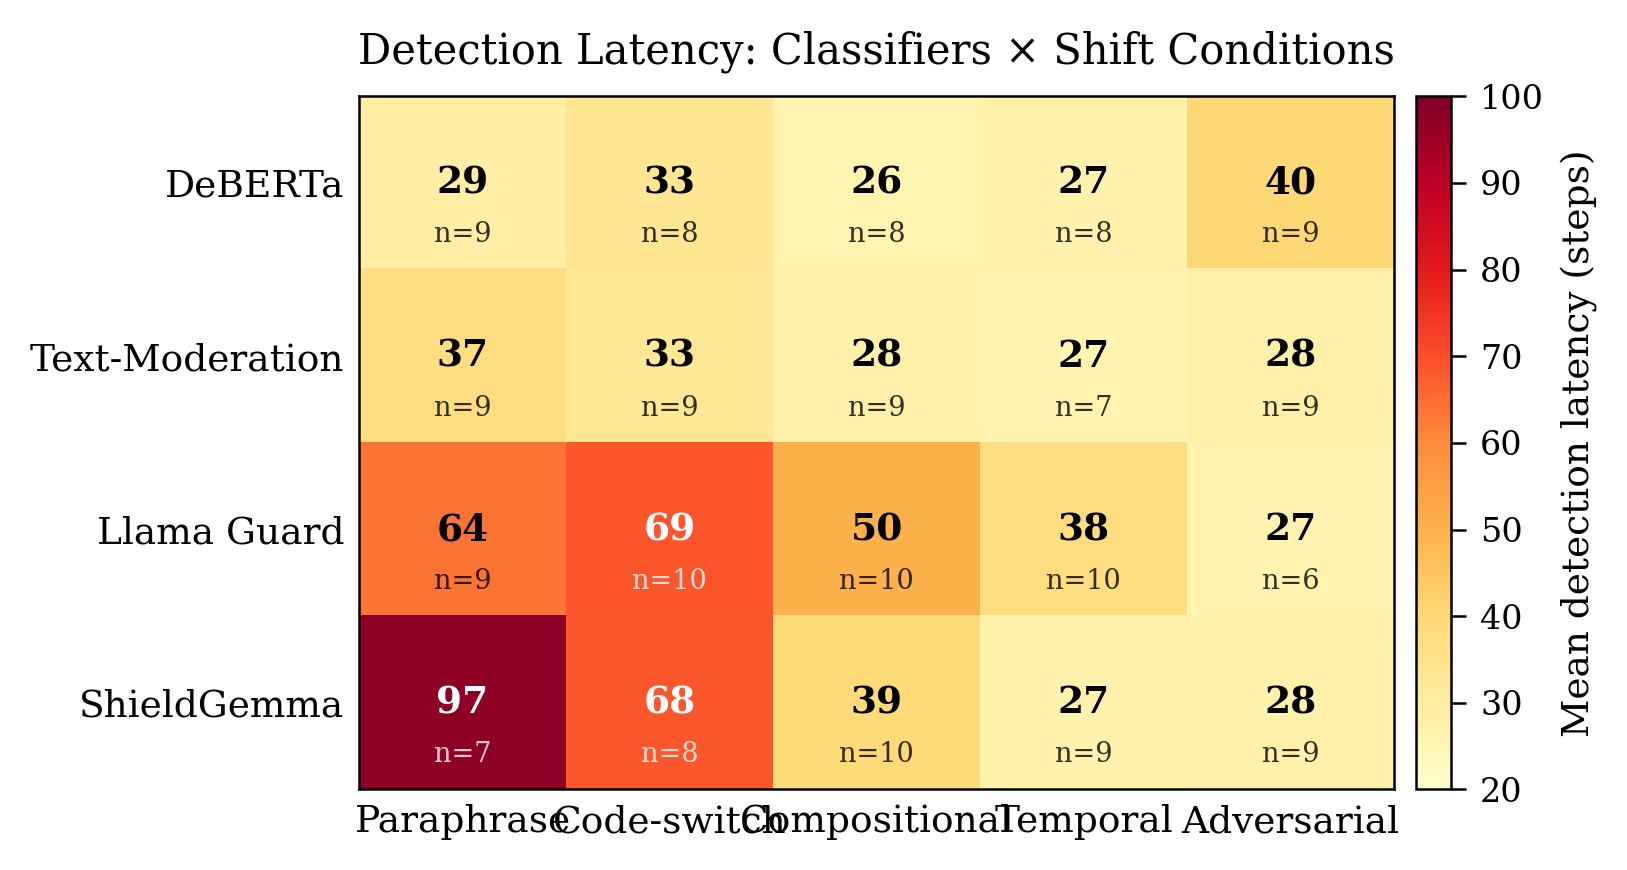
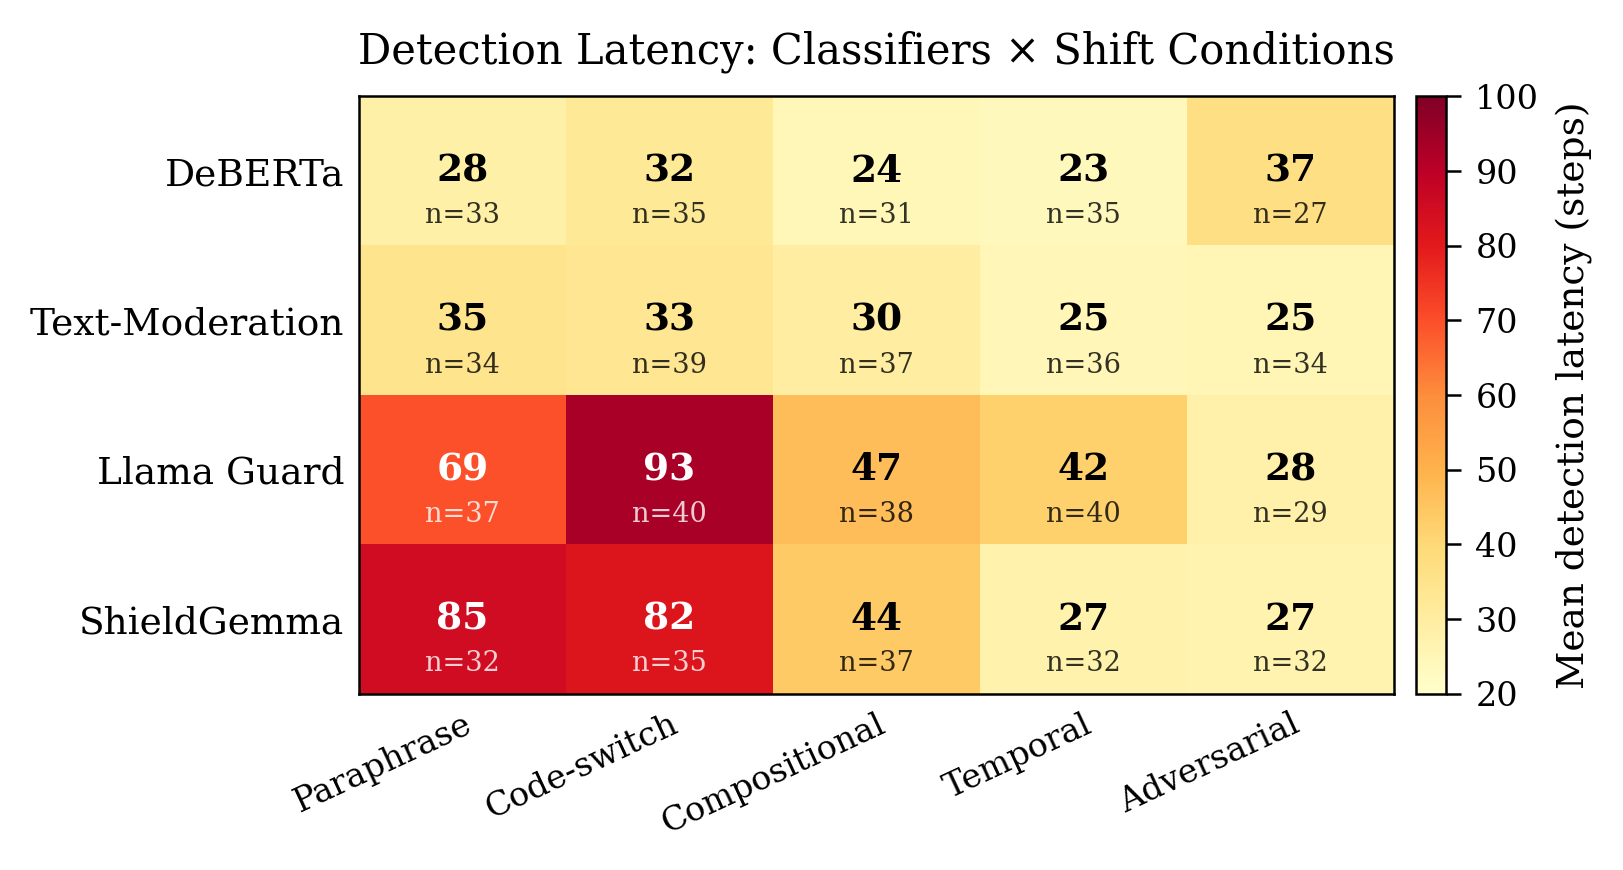
SMSR v5: redraw latency heatmap from the 800-cell factorial; fix README finding 9
- Figure 2 (latency heatmap) was drawn on 2026-05-18 from an early 200-cell
  partial run (n=6-10 per cell) and never regenerated; its cells disagreed
  with Table 6. Redrawn by scripts/plot_results.py from
  results/factorial_results.jsonl (800 cells); cell means now match Table 6
  and the crossover pattern is unchanged. X-axis labels rotated so they no
  longer overlap. Correction (11) now lists this figure.
- README finding 9 quoted the KS heterogeneity figures from the other run
  (5% -> 22.5%, 4.3x, recal 2.4%) and called the scorer DeBERTa-v3-large.
  Now matches the paper: 4.3% -> 23.4% (5.4x), recal 2.6%, primary
  DeBERTa-v3-base, results/v5_heterogeneous_real/.

checkpaper: 0 FAIL; verify_paper_numbers.py: 225 passed, 0 failed.

diff --git a/paper/latex/paper.tex b/paper/latex/paper.tex
@@ -380,7 +380,7 @@ PAIR (Exp.~4) & 100 prompts $\times$ 100 iter. & 30 $\times$ 20 & 6\% \\
 \subsection{Corrections Since the Previous Public Version}
 \label{sec:corrections}
 
-For a reader of the prior arXiv version, this version makes fourteen corrections, each detailed in the section noted. (1)~The adversarial token-budget threshold is re-measured: the prior $T_{50,\text{adv}} = 154$ tokens ($3.3\times$ the benign threshold) rested on a single out-of-grid extrapolation point and is withdrawn; an extended exploratory sweep now measures $T_{50,\text{adv}} = 117$ tokens (95\% CI $[104, 129]$, a $2.5\times$ shift) directly (\S\ref{sec:cot-starvation-lead}, \S\ref{sec:llm-canary}). (2)~A no-shift (source-vs-source) control confirms the density-ratio collapse is an $n \ll d$ interpolation artefact for Text-Moderation and shows no collapse for the primary DeBERTa classifier; it was not run for the two decoder classifiers (\S\ref{sec:conformal-results}, \S\ref{sec:limitations}). (3)~The interaction $\eta^2 = 0.185$ is now stated as a complete-case estimate whose magnitude is sensitive to the non-random exclusion of invalid cells (MNAR), with a censoring sensitivity analysis added (\S\ref{sec:limitations}). (4)~A circular descriptive statistic (the mean gap of the subset of blocked cases selected for lying near the predicted value) is removed; the stall evidence is now reported without that selection (\S\ref{sec:divergence-min}). (5)~The certified-robustness-via-randomised-smoothing appendix is removed: its Gaussian-smoothing assumptions were not validated for the discrete-token attack the paper actually studies. (6)~The citation to the authors' companion injection-execution paper is corrected to the published record (arXiv:2605.08442). (7)~The primary encoder is corrected from DeBERTa-v3-large (1024-d) to the fine-tuned DeBERTa-v3-base (768-d) that the experiments used, and the detector-code fixes are documented, with the factorial values reported as pre-fix (\S\ref{sec:corrections}). (8)~The deployment Pareto table is corrected to the committed $N{=}1000$ benign counts (gpt-4o-mini 7/1000 and gpt-5.1 6/1000 false positives, where the earlier table reported 0/1000) and to 46/49 detection for gpt-5.1 (earlier 45/49, which did not match the stated lower bound). (9)~The growing-window CS results, including the ramp and mixing sweeps, are regenerated with the corrected detector; the earlier ones came from a Hoeffding-type interval rule, not the betting test the paper described (\S\ref{sec:corrections}). Detection counts are unchanged, latencies are shorter in every cell, and CS is no longer reported as slower than KS. (10)~The CS-versus-KS comparison at low mixing is withdrawn: it gave KS a 100-score reference and CS a 500-score reference, and with equal references KS detects as often and is faster (\S\ref{sec:channel-comparison}). (11)~Two figures are redrawn from stored results: the threat-tier figure showed 70\% and 60\% for Tiers~3 and 4, which are in no result file (Table~\ref{tab:threat-tiers} gives 45\% and 70\% blocked), and the budget figure showed an earlier 7/10 joint run where the text reports 11/20 (\S\ref{sec:threat-model}, \S\ref{sec:transfer}). (12)~The Regime~C description is corrected: Llama Guard's scores on the 22 examples are not identical (0.01 to 1.00), and 4 of the 22 examples are truncated by the harness so that their suffix is removed (\S\ref{sec:regime-c}). (13)~The encoder-versus-decoder comparison on adversarial suffix, one of the eight Holm--Bonferroni comparisons, is marginal on the original rows (adjusted $p=0.044$) and does not survive on the regenerated factorial ($0.064$ with the committed KS, $0.081$ with the corrected one); the ANOVA permutation $p$-values sit at the floor of 1000 permutations (\S\ref{sec:multiplicity}, \S\ref{sec:anova}). (14)~Eight citations are narrowed to what the cited works state (density-ratio estimation in high dimensions, KSWIN, the test-point weight in weighted conformal prediction, the block-based MMD test, adaptive prediction sets, LLM-based safety classifiers). Items (1), (9)--(13) change numbers or claims that the prior version stated; the others document, narrow or remove material. The headline benchmark and canary findings keep their direction.
+For a reader of the prior arXiv version, this version makes fourteen corrections, each detailed in the section noted. (1)~The adversarial token-budget threshold is re-measured: the prior $T_{50,\text{adv}} = 154$ tokens ($3.3\times$ the benign threshold) rested on a single out-of-grid extrapolation point and is withdrawn; an extended exploratory sweep now measures $T_{50,\text{adv}} = 117$ tokens (95\% CI $[104, 129]$, a $2.5\times$ shift) directly (\S\ref{sec:cot-starvation-lead}, \S\ref{sec:llm-canary}). (2)~A no-shift (source-vs-source) control confirms the density-ratio collapse is an $n \ll d$ interpolation artefact for Text-Moderation and shows no collapse for the primary DeBERTa classifier; it was not run for the two decoder classifiers (\S\ref{sec:conformal-results}, \S\ref{sec:limitations}). (3)~The interaction $\eta^2 = 0.185$ is now stated as a complete-case estimate whose magnitude is sensitive to the non-random exclusion of invalid cells (MNAR), with a censoring sensitivity analysis added (\S\ref{sec:limitations}). (4)~A circular descriptive statistic (the mean gap of the subset of blocked cases selected for lying near the predicted value) is removed; the stall evidence is now reported without that selection (\S\ref{sec:divergence-min}). (5)~The certified-robustness-via-randomised-smoothing appendix is removed: its Gaussian-smoothing assumptions were not validated for the discrete-token attack the paper actually studies. (6)~The citation to the authors' companion injection-execution paper is corrected to the published record (arXiv:2605.08442). (7)~The primary encoder is corrected from DeBERTa-v3-large (1024-d) to the fine-tuned DeBERTa-v3-base (768-d) that the experiments used, and the detector-code fixes are documented, with the factorial values reported as pre-fix (\S\ref{sec:corrections}). (8)~The deployment Pareto table is corrected to the committed $N{=}1000$ benign counts (gpt-4o-mini 7/1000 and gpt-5.1 6/1000 false positives, where the earlier table reported 0/1000) and to 46/49 detection for gpt-5.1 (earlier 45/49, which did not match the stated lower bound). (9)~The growing-window CS results, including the ramp and mixing sweeps, are regenerated with the corrected detector; the earlier ones came from a Hoeffding-type interval rule, not the betting test the paper described (\S\ref{sec:corrections}). Detection counts are unchanged, latencies are shorter in every cell, and CS is no longer reported as slower than KS. (10)~The CS-versus-KS comparison at low mixing is withdrawn: it gave KS a 100-score reference and CS a 500-score reference, and with equal references KS detects as often and is faster (\S\ref{sec:channel-comparison}). (11)~Three figures are redrawn from stored results: the threat-tier figure showed 70\% and 60\% for Tiers~3 and 4, which are in no result file (Table~\ref{tab:threat-tiers} gives 45\% and 70\% blocked), the budget figure showed an earlier 7/10 joint run where the text reports 11/20 (\S\ref{sec:threat-model}, \S\ref{sec:transfer}), and the latency heatmap (Figure~\ref{fig:heatmap}) was drawn from an early 200-cell partial run ($n{=}6$--10 per cell) and is now drawn from the 800-cell factorial, so its cell means match Table~\ref{tab:latency}; the crossover pattern is unchanged. (12)~The Regime~C description is corrected: Llama Guard's scores on the 22 examples are not identical (0.01 to 1.00), and 4 of the 22 examples are truncated by the harness so that their suffix is removed (\S\ref{sec:regime-c}). (13)~The encoder-versus-decoder comparison on adversarial suffix, one of the eight Holm--Bonferroni comparisons, is marginal on the original rows (adjusted $p=0.044$) and does not survive on the regenerated factorial ($0.064$ with the committed KS, $0.081$ with the corrected one); the ANOVA permutation $p$-values sit at the floor of 1000 permutations (\S\ref{sec:multiplicity}, \S\ref{sec:anova}). (14)~Eight citations are narrowed to what the cited works state (density-ratio estimation in high dimensions, KSWIN, the test-point weight in weighted conformal prediction, the block-based MMD test, adaptive prediction sets, LLM-based safety classifiers). Items (1), (9)--(13) change numbers or claims that the prior version stated; the others document, narrow or remove material. The headline benchmark and canary findings keep their direction.
 
 \paragraph{Post-review corrections (affects which numbers are current).} An audit after the prior public version identified and fixed two detector-code defects and corrected one model identity. The 800-cell factorial values of \S\ref{sec:results} were computed with the pre-fix KS statistic; Appendix~\ref{app:regeneration} reports a full regeneration of all 800 cells with the corrected statistic, summarised below.
 \begin{itemize}

diff --git a/scripts/plot_results.py b/scripts/plot_results.py
@@ -83,7 +83,8 @@ def fig1_heatmap(rows):
                         fontsize=6.5, color=color, alpha=0.8)
 
     ax.set_xticks(range(5))
-    ax.set_xticklabels(SHIFTS, fontsize=9)
+    # Rotated: horizontal labels overlap at this figure width.
+    ax.set_xticklabels(SHIFTS, fontsize=8, rotation=25, ha="right", rotation_mode="anchor")
     ax.set_yticks(range(4))
     ax.set_yticklabels(CLASSIFIERS, fontsize=9)
     ax.tick_params(length=0)

diff --git a/README.md b/README.md
@@ -26,7 +26,7 @@ Reasoning models deployed as safety monitors suffer **reasoning-token budget sta
 
 8. **CUSUM/EWMA close the sub-threshold blind spot (v5).** Persistent low-rate contamination (4-12% mixing) that evades both KS and scan martingale is detectable by long-memory sequential detectors. CUSUM (k=0.5) and EWMA (lambda=0.05) detect down to 4% mixing at 90% detection rate (MDM=4%), at the cost of increased latency (~930 steps vs ~365 for KS at higher mixing). At 12% mixing (the previously identified blind-spot boundary), CUSUM detects at 88 steps with 100% power.
 
-9. **KS is catastrophically sensitive to benign heterogeneity (v5).** Under production-like traffic drawn from multiple benign sources (code, creative writing, chat), KS FAR inflates from 5% to 22.5% (4.3x) because it detects any distributional difference, not only adversarial shift. Recalibrating KS on representative production traffic immediately recovers controlled FAR (2.4%). Validated with real DeBERTa-v3-large scoring of 3,768 prompts from 5 sources. **CUSUM's behavior under this same heterogeneous traffic is not currently established.** This run shows CUSUM's FAR decreasing (5.4% to 0.7%), but a separately labeled real-DeBERTa-scored run of the same nominal experiment shows CUSUM FAR saturating near 100% instead -- opposite directions, not just different point estimates. We do not make a robustness (or non-robustness) claim for CUSUM on heterogeneous traffic pending reconciliation of the two runs.
+9. **KS is sensitive to benign heterogeneity (v5).** Under production-like traffic drawn from multiple benign sources (code, creative writing, chat), KS FAR inflates from 4.3% to 23.4% (5.4x) because it detects any distributional difference, not only adversarial shift. Recalibrating KS on representative production traffic recovers controlled FAR (2.6%). Scored with the primary DeBERTa-v3-base classifier on 3,768 prompts from 5 sources (`results/v5_heterogeneous_real/`). **CUSUM's behaviour under this same heterogeneous traffic is not established.** On that run CUSUM saturates (FAR near 100%), while a separately labelled run of the same nominal experiment (`results/v5_heterogeneous/`) shows CUSUM essentially unchanged; the two point in opposite directions and were not reconciled, so we make no robustness (or non-robustness) claim for CUSUM on heterogeneous traffic.
 
 ## Verification
 
